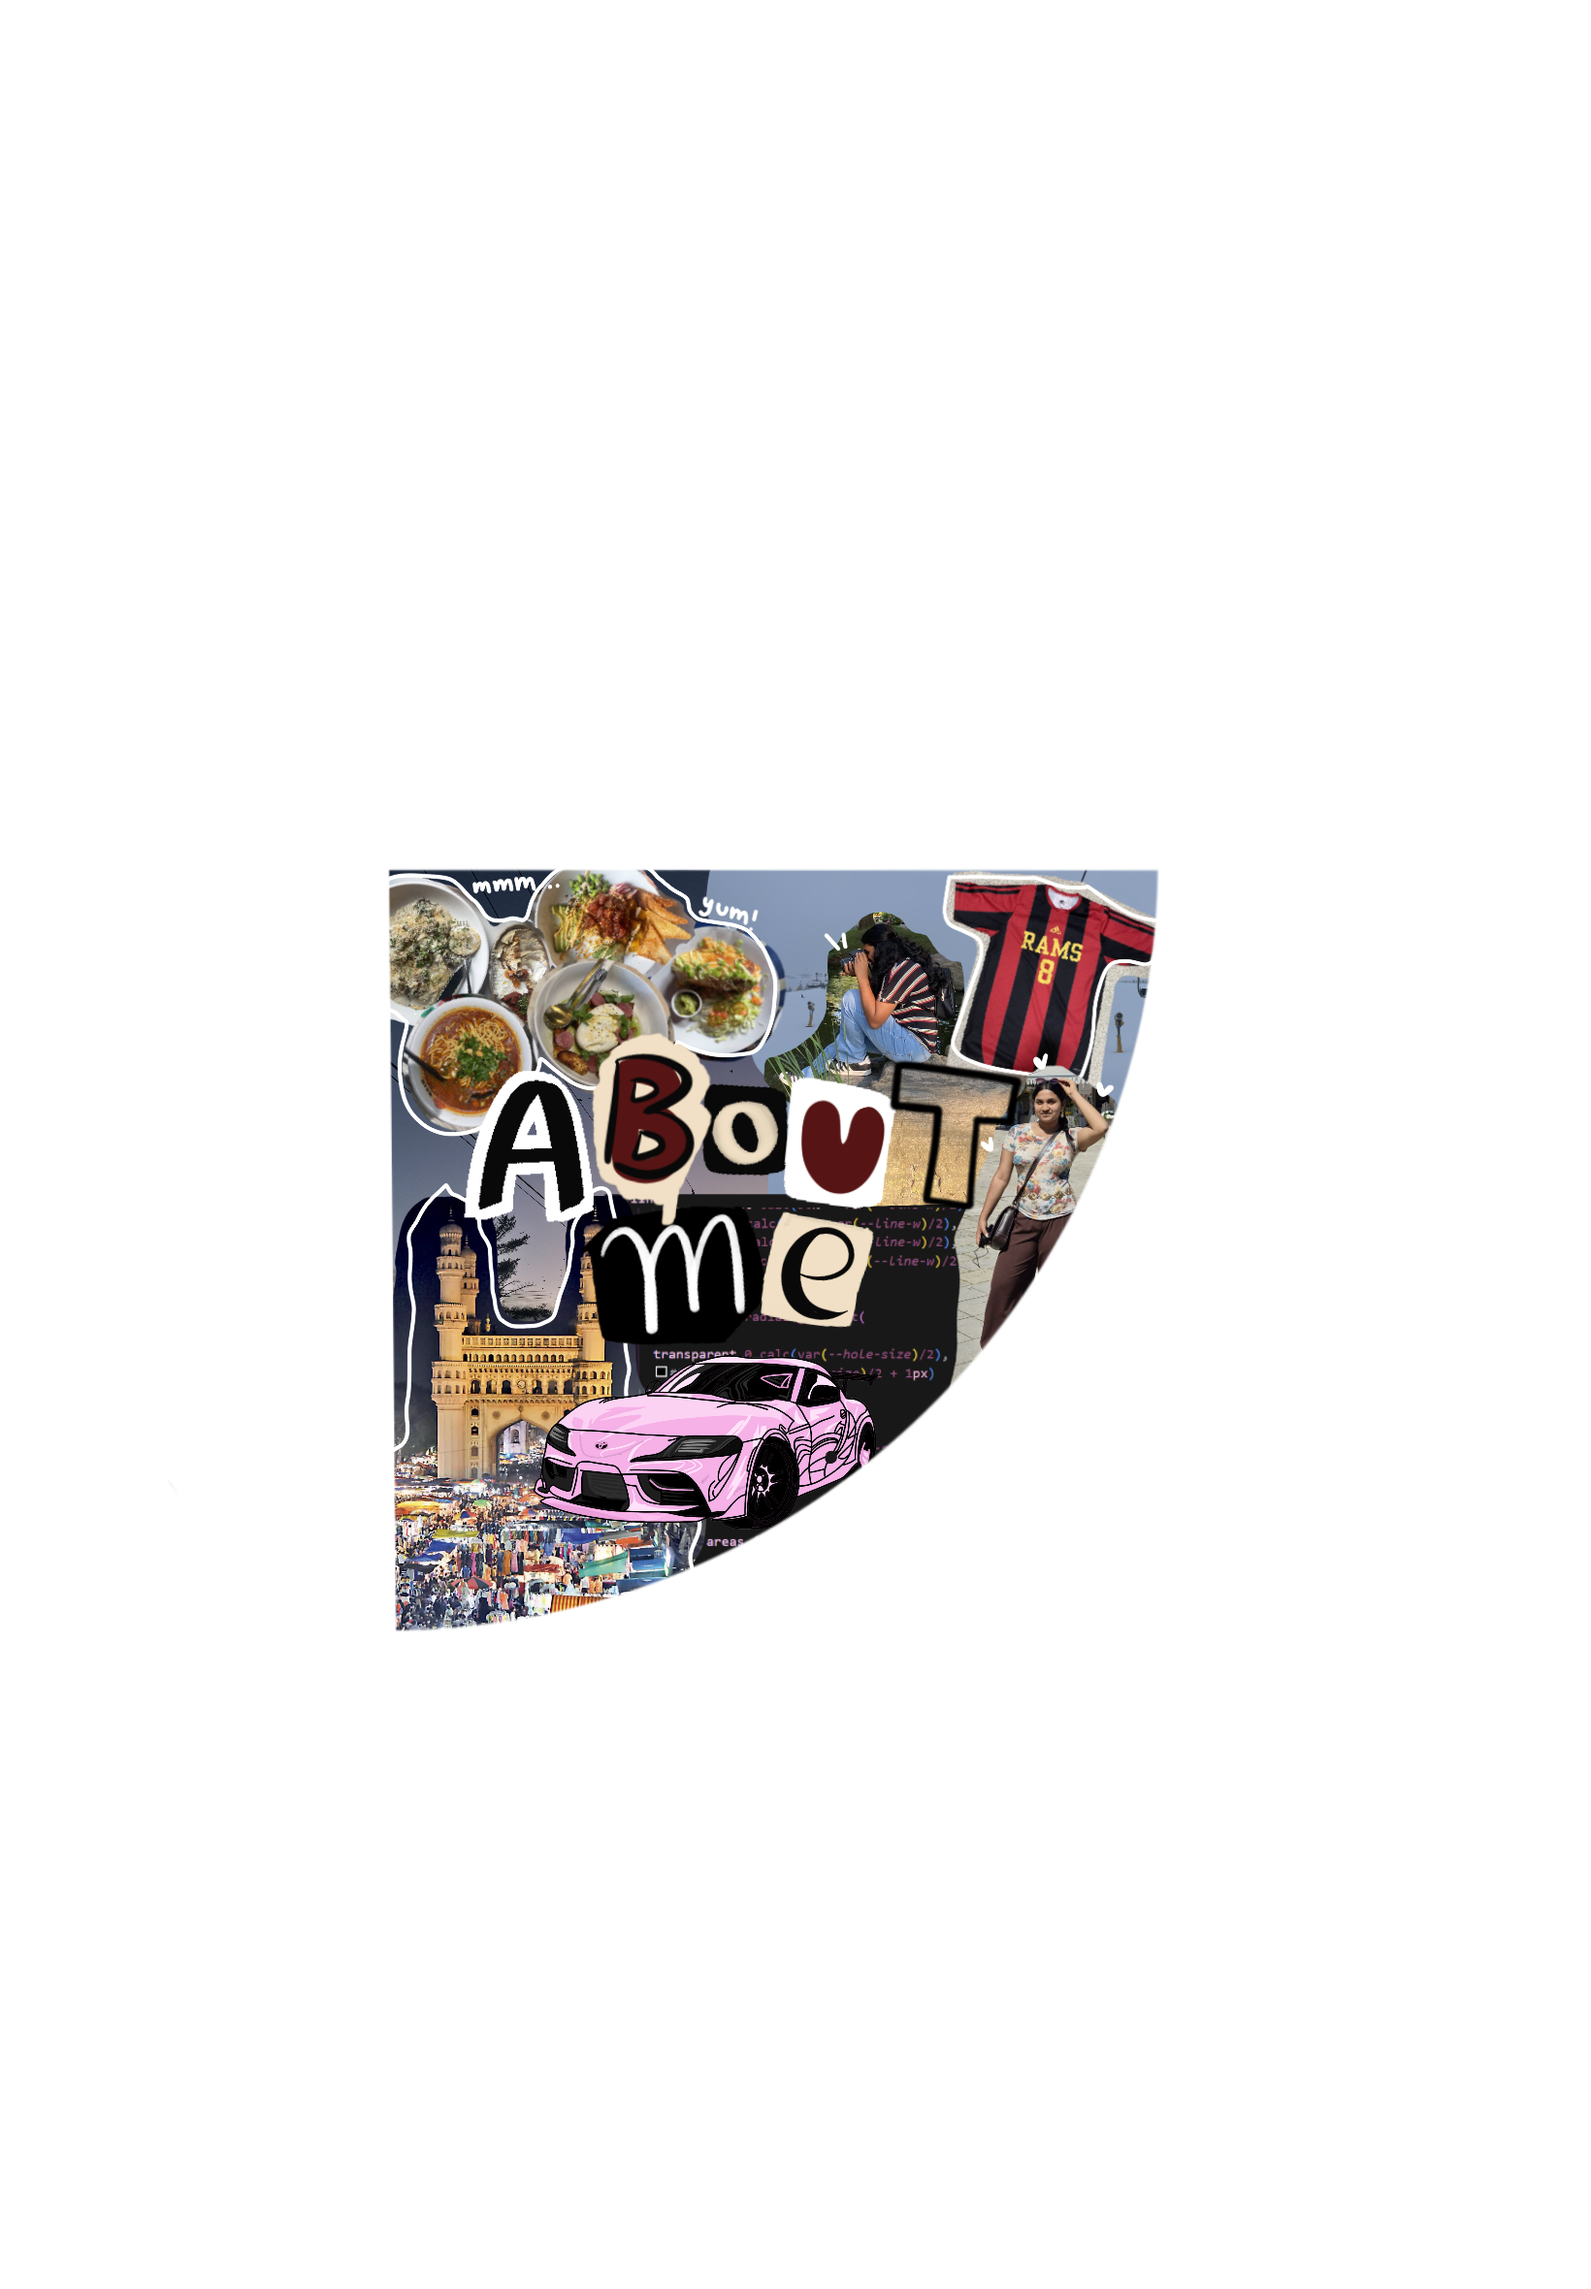
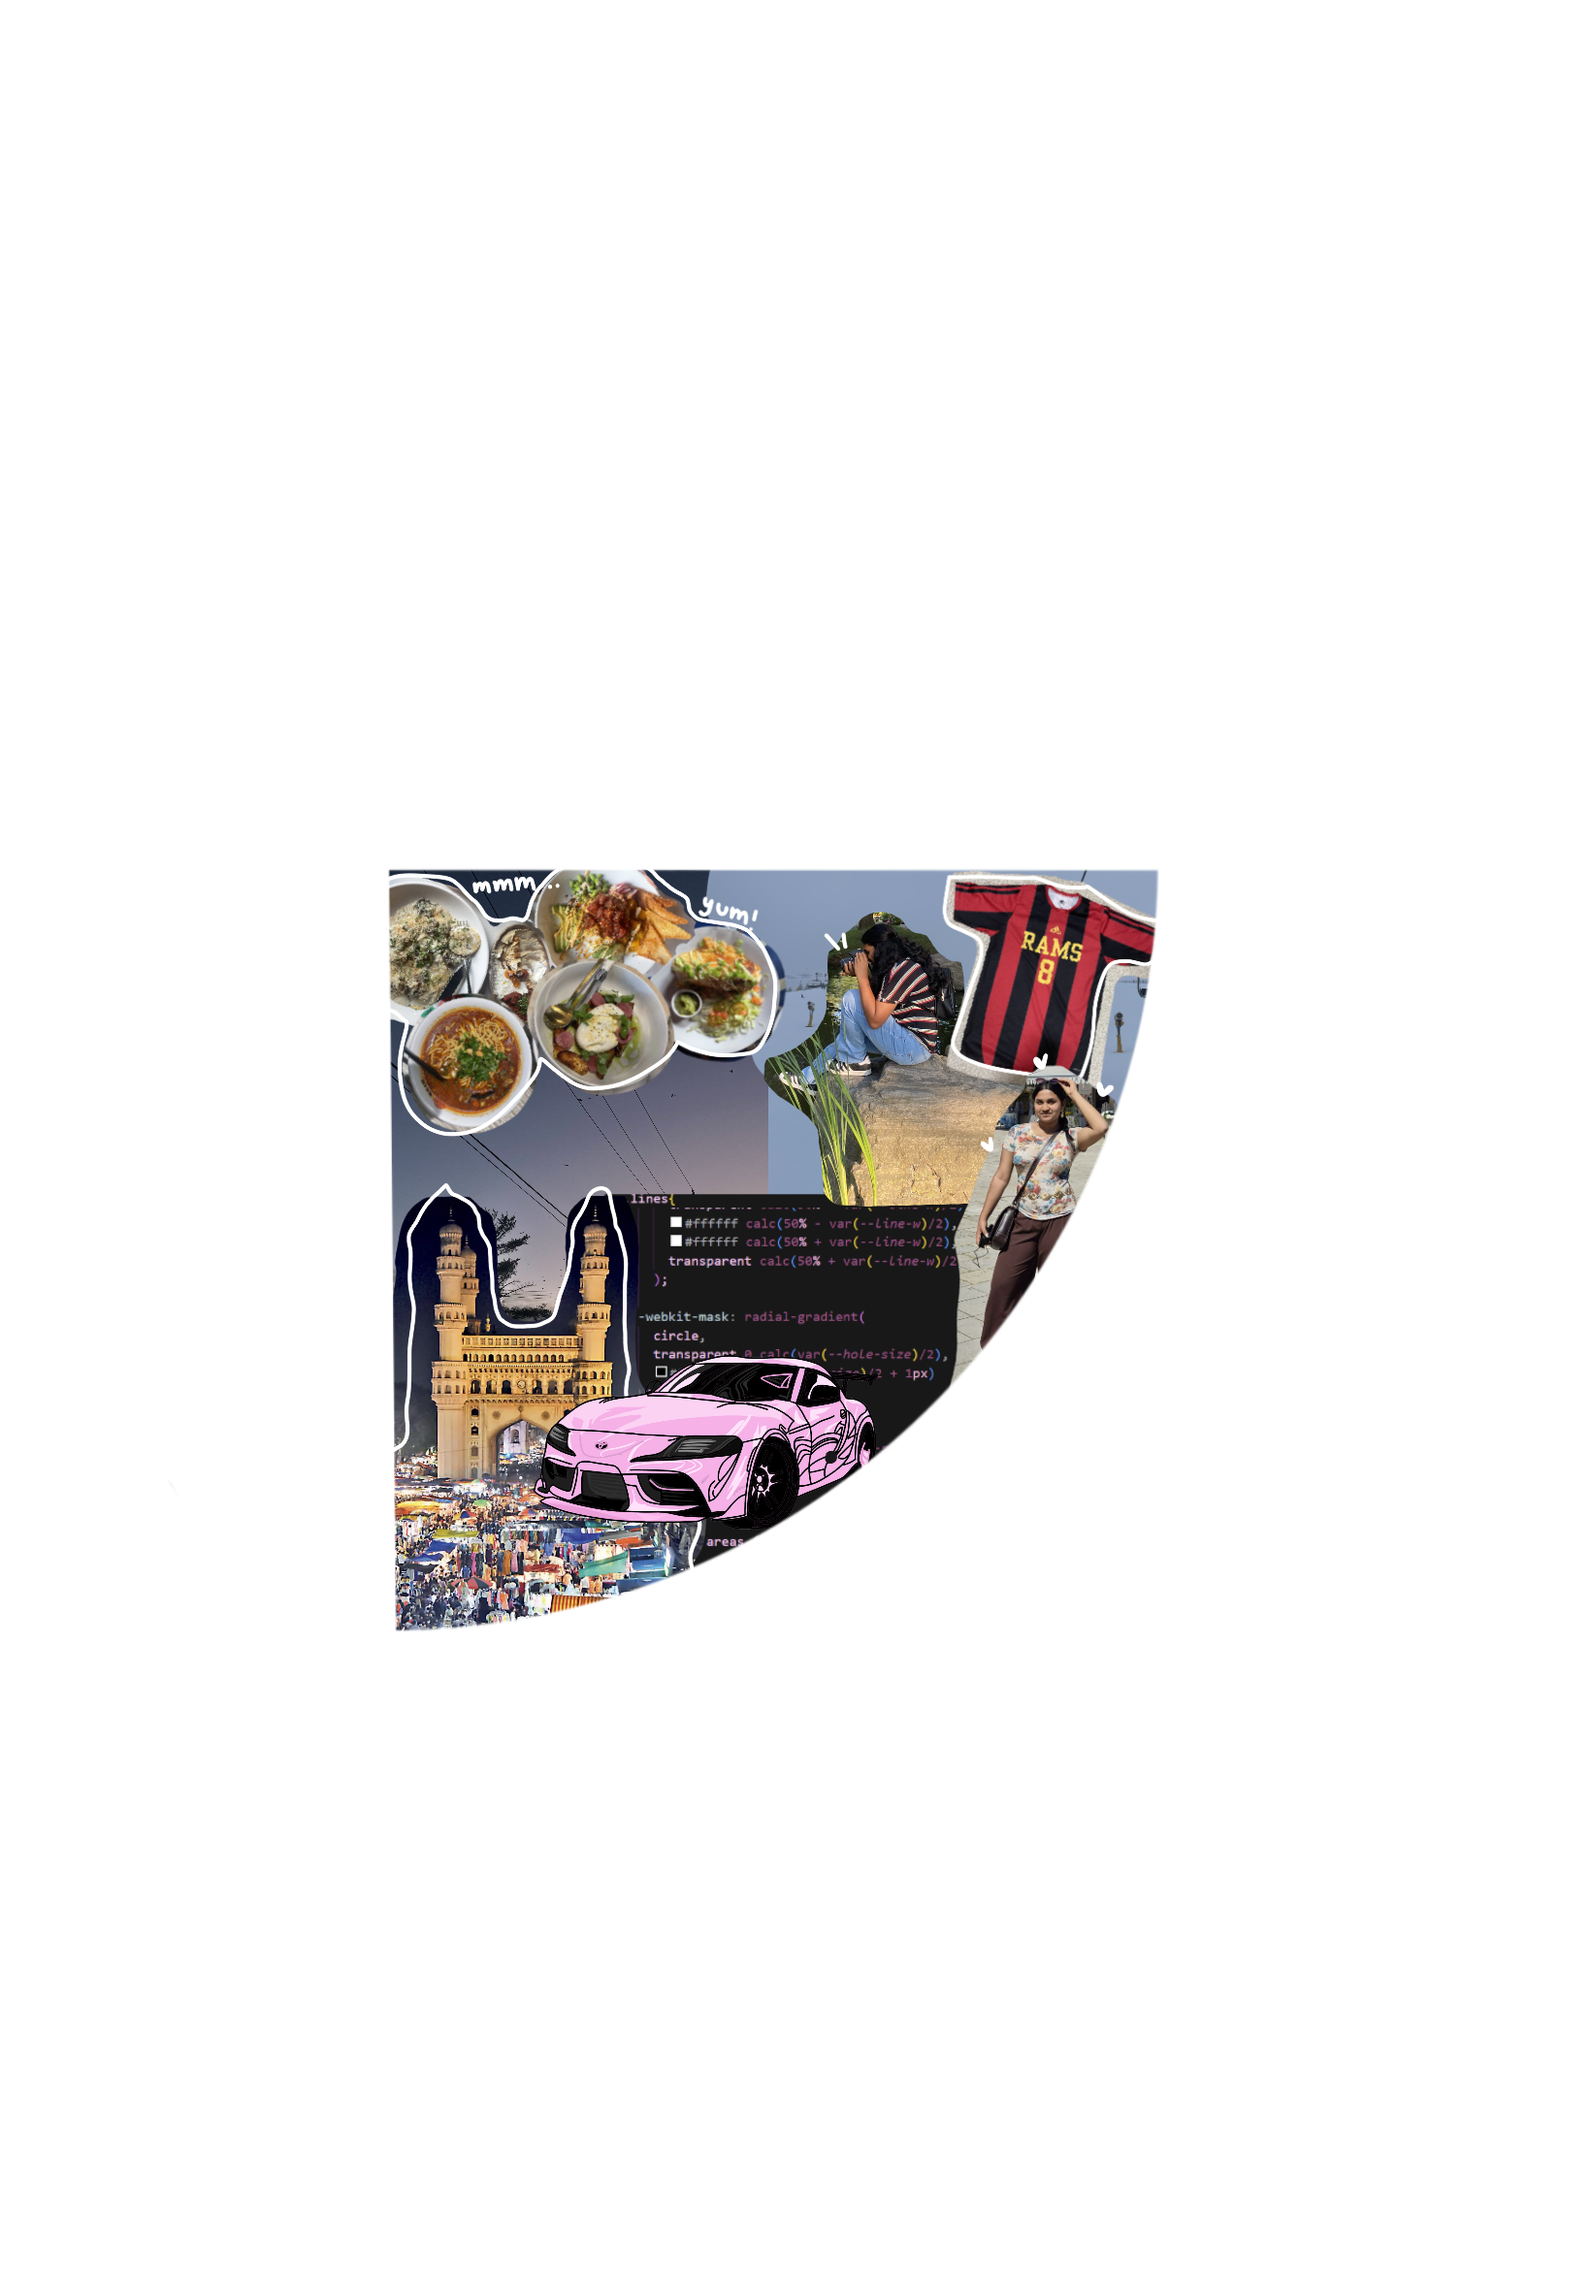
photos and about me buttons fixed

Changed region(s): [[0.2799, 0.4331, 0.653, 0.5877]]

diff --git a/src/components/RotatingDisc.tsx b/src/components/RotatingDisc.tsx
@@ -2,16 +2,13 @@ import { useNavigate } from "react-router-dom";
 import photosCollage from "@/assets/photos-collage.png";
 import aboutCollage from "@/assets/about-collage.png";
 import discCollage from "@/assets/disc-collage.svg";
-
-const quadrants = [
-  { label: "Projects", path: "/projects", rotation: -45, image: discCollage },
-  { label: "Photos", path: "/photos", rotation: 45, image: photosCollage },
-  { label: "Experience", path: "/experience", rotation: 225, image: discCollage },
-  { label: "About Me", path: "/about", rotation: 135, image: aboutCollage },
-];
+import photosTitle from "@/assets/photos-title.png";
+import aboutTitle from "@/assets/about-title.png";
 
 const RotatingDisc = () => {
   const navigate = useNavigate();
+  const photosBaseTransform = "translateY(5.5rem) scale(1.35)";
+  const photosHoverTransform = "translateY(5.5rem) scale(1.45)";
 
   return (
     <div className="relative">
@@ -25,32 +22,26 @@ const RotatingDisc = () => {
             "0 10px 40px rgba(0, 0, 0, 0.4), inset 0 2px 4px rgba(255, 255, 255, 0.3)",
         }}
       >
-        {/* Inner disc with images - rotating */}
-        <div
-          className="w-full h-full rounded-full overflow-hidden relative animate-spin-slow"
-          style={{
-            boxShadow: "inset 0 2px 10px rgba(0, 0, 0, 0.2)",
-          }}
-        >
-          {/* Background image for quadrants */}
+        {/* Inner rotating disc */}
+        <div className="w-full h-full rounded-full overflow-hidden relative animate-spin-slow">
+          {/* Disc background */}
           <img
             src={discCollage}
-            alt="Background collage"
-            className="w-full h-full object-cover"
-            style={{ position: "relative", zIndex: 0 }}
+            alt="Disc background"
+            className="absolute inset-0 w-full h-full object-cover"
+            style={{ zIndex: 0 }}
           />
 
-          {/* Inner disc shadow — MUST be UNDER the photos */}
+          {/* Inner disc shadow (UNDER images) */}
           <div
             className="absolute inset-0 rounded-full pointer-events-none"
             style={{
-              // subtle depth, but placed beneath collages
+              zIndex: 1,
               boxShadow: "inset 0 4px 12px rgba(0, 0, 0, 0.18)",
-              zIndex: 0.8,
             }}
           />
 
-          {/* Photos - positioned in top-right quadrant area */}
+          {/* Photos collage (top-right) */}
           <div
             className="absolute"
             style={{
@@ -59,24 +50,22 @@ const RotatingDisc = () => {
               width: "50%",
               height: "50%",
               pointerEvents: "none",
-              zIndex: 1,
+              zIndex: 2,
             }}
           >
             <img
               src={photosCollage}
-              alt="Photos"
+              alt="Photos collage"
               style={{
                 width: "100%",
                 height: "100%",
                 objectFit: "contain",
-                objectPosition: "center center",
-                display: "block",
-                transform: "translate(-2.3rem, 2rem) scale(2.5)",
+                transform: "translate(-0.8rem, 9.5rem) scale(2.5)",
               }}
             />
           </div>
 
-          {/* About Me - positioned in bottom-right quadrant area */}
+          {/* About collage (bottom-right) */}
           <div
             className="absolute"
             style={{
@@ -85,26 +74,23 @@ const RotatingDisc = () => {
               width: "50%",
               height: "50%",
               pointerEvents: "none",
-              zIndex: 1,
+              zIndex: 2,
             }}
           >
             <img
               src={aboutCollage}
-              alt="About Me"
+              alt="About collage"
               style={{
                 width: "100%",
                 height: "100%",
                 objectFit: "contain",
-                objectPosition: "center center",
-                display: "block",
-                transform: "translate(-0.85rem, -2.7rem) scale(2.5)",
+                transform: "translate(-0.9rem, -2.5rem) scale(2.5)",
               }}
             />
           </div>
 
-          {/* Quadrant divider lines */}
-          <div className="absolute inset-0 pointer-events-none" style={{ zIndex: 2 }}>
-            {/* Horizontal line */}
+          {/* Divider lines (visual only) */}
+          <div className="absolute inset-0 pointer-events-none" style={{ zIndex: 3 }}>
             <div
               className="absolute top-1/2 left-0 w-full h-[2px] -translate-y-1/2"
               style={{
@@ -112,7 +98,6 @@ const RotatingDisc = () => {
                   "linear-gradient(90deg, transparent 10%, hsl(var(--paper)) 30%, hsl(var(--paper)) 70%, transparent 90%)",
               }}
             />
-            {/* Vertical line */}
             <div
               className="absolute left-1/2 top-0 w-[2px] h-full -translate-x-1/2"
               style={{
@@ -122,39 +107,107 @@ const RotatingDisc = () => {
             />
           </div>
 
-          {/* Clickable quadrants */}
-          {quadrants.map((quadrant, index) => (
-            <button
-              key={quadrant.label}
-              onClick={() => navigate(quadrant.path)}
-              className="absolute w-1/2 h-1/2 group cursor-pointer transition-all duration-300 hover:bg-burgundy/20"
+          {/* PHOTOS BUTTON */}
+          <button
+            type="button"
+            onClick={() => navigate("/photos")}
+            onMouseEnter={(e) => {
+              const img = e.currentTarget.querySelector("img");
+              if (!img) return;
+              img.style.transform = photosHoverTransform;
+              img.style.filter = "drop-shadow(0 10px 16px rgba(0,0,0,0.35))";
+            }}
+            onMouseLeave={(e) => {
+              const img = e.currentTarget.querySelector("img");
+              if (!img) return;
+              img.style.transform = photosBaseTransform;
+              img.style.filter = "drop-shadow(0 0 0 rgba(0,0,0,0))";
+            }}
+            className="absolute group"
+            style={{
+              top: "42%",
+              left: "72%",
+              transform: "translate(-50%, -50%)",
+              zIndex: 4,
+              background: "transparent",
+              border: "none",
+              padding: 0,
+              lineHeight: 0,
+              display: "flex",
+              alignItems: "center",
+              justifyContent: "center",
+              width: "7.5rem",
+              height: "7.5rem",
+              borderRadius: "9999px",
+            }}
+            aria-label="Go to Photos"
+          >
+            <img
+              src={photosTitle}
+              alt="Photos"
+              draggable={false}
+              className="transition-transform duration-300"
               style={{
-                top: index < 2 ? 0 : "50%",
-                left: index % 2 === 0 ? 0 : "50%",
-                zIndex: 3,
-                clipPath:
-                  index === 0
-                    ? "polygon(100% 0%, 0% 0%, 100% 100%)"
-                    : index === 1
-                    ? "polygon(0% 0%, 100% 0%, 0% 100%)"
-                    : index === 2
-                    ? "polygon(0% 0%, 100% 100%, 0% 100%)"
-                    : "polygon(100% 0%, 100% 100%, 0% 100%)",
+                filter: "drop-shadow(0 0 0 rgba(0,0,0,0))",
+                width: "14rem",
+                maxWidth: "42vw",
+                transform: photosBaseTransform,
+                transformOrigin: "center",
+                pointerEvents: "none",
               }}
-            >
-              <span
-                className="absolute font-handwritten text-paper text-lg md:text-xl lg:text-2xl font-bold drop-shadow-lg transition-transform duration-300 group-hover:scale-110"
-                style={{
-                  top: index < 2 ? "25%" : "55%",
-                  left: index % 2 === 0 ? "25%" : "55%",
-                  transform: "translate(-50%, -50%)",
-                  textShadow: "2px 2px 4px rgba(0,0,0,0.5)",
-                }}
-              >
-                {quadrant.label}
-              </span>
-            </button>
-          ))}
+            />
+          </button>
+
+          {/* ABOUT BUTTON */}
+          <button
+            type="button"
+            onClick={() => navigate("/about")}
+            onMouseEnter={(e) => {
+              const img = e.currentTarget.querySelector("img");
+              if (!img) return;
+              img.style.transform = "scale(1.48)";
+              img.style.filter = "drop-shadow(0 10px 16px rgba(0,0,0,0.35))";
+            }}
+            onMouseLeave={(e) => {
+              const img = e.currentTarget.querySelector("img");
+              if (!img) return;
+              img.style.transform = "scale(1.35)";
+              img.style.filter = "drop-shadow(0 0 0 rgba(0,0,0,0))";
+            }}
+            className="absolute group"
+            style={{
+              top: "65%",
+              left: "70%",
+              transform: "translate(-50%, -50%)",
+              zIndex: 4,
+              background: "transparent",
+              border: "none",
+              padding: 0,
+              lineHeight: 0,
+              display: "flex",
+              alignItems: "center",
+              justifyContent: "center",
+              width: "7.5rem",
+              height: "7.5rem",
+              borderRadius: "9999px",
+            }}
+            aria-label="Go to About Me"
+          >
+            <img
+              src={aboutTitle}
+              alt="About Me"
+              draggable={false}
+              className="transition-transform duration-300"
+              style={{
+                filter: "drop-shadow(0 0 0 rgba(0,0,0,0))",
+                width: "15rem",
+                maxWidth: "46vw",
+                transform: "scale(1.35)",
+                transformOrigin: "center",
+                pointerEvents: "none",
+              }}
+            />
+          </button>
 
           {/* Center hole */}
           <div

diff --git a/src/index.css b/src/index.css
@@ -173,7 +173,7 @@
       65% 95%,
       60% 90%,
       55% 96%,
-      50% 91%,
+      50% 78%,
       45% 97%,
       40% 92%,
       35% 95%,
